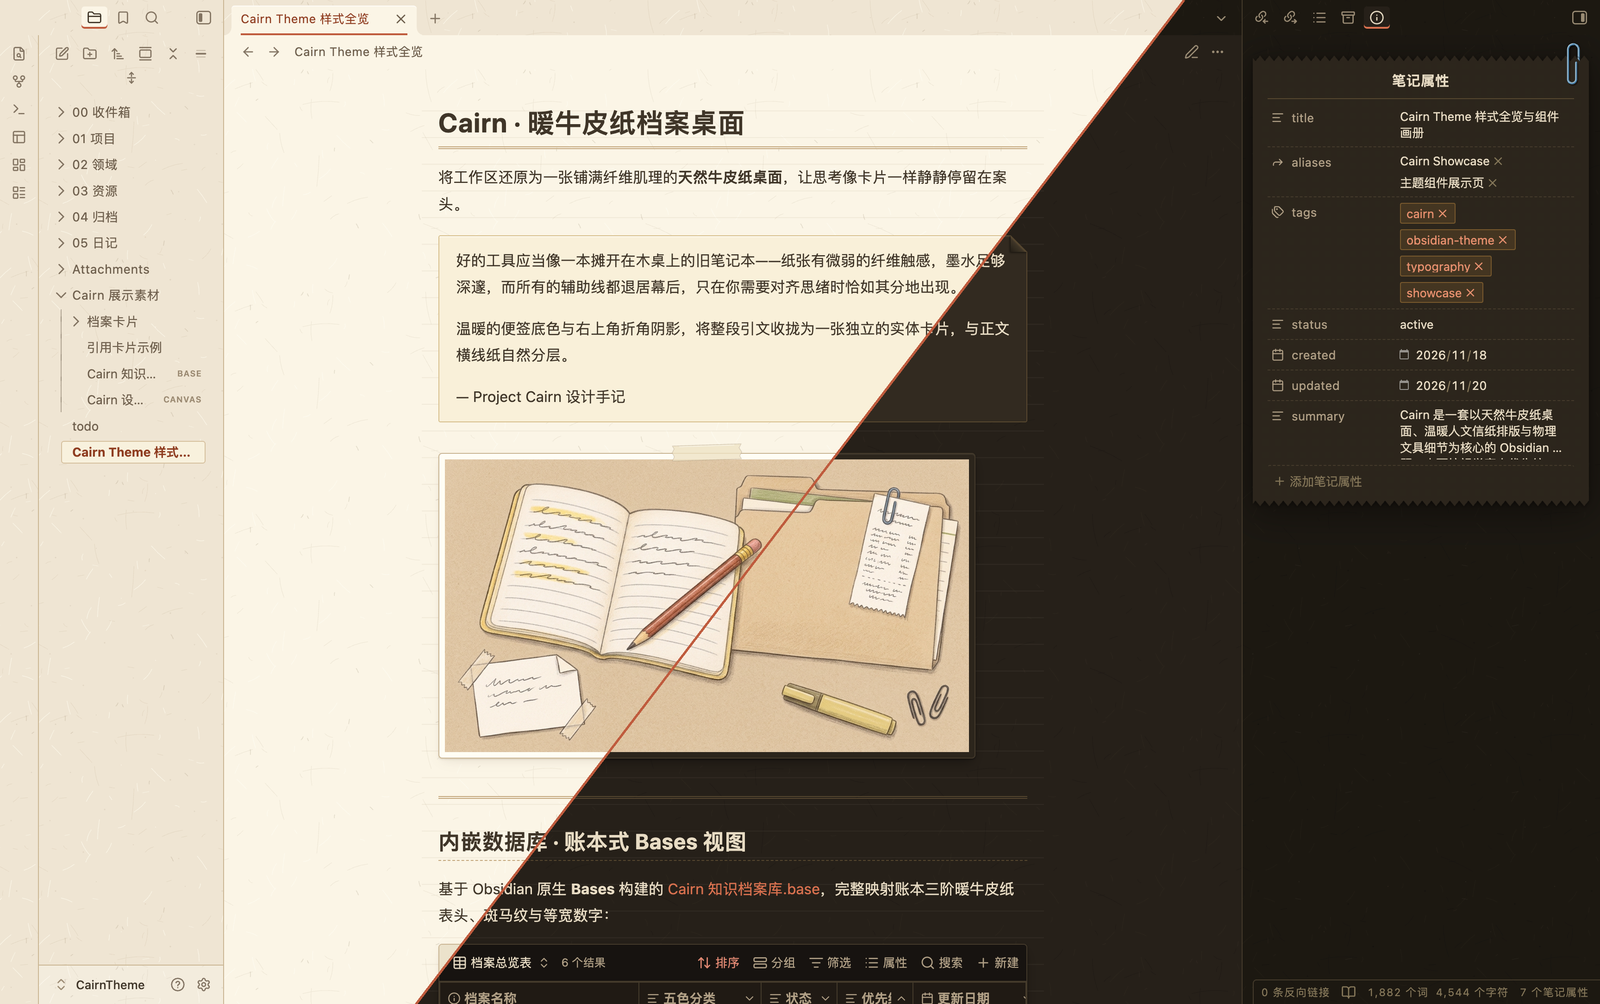
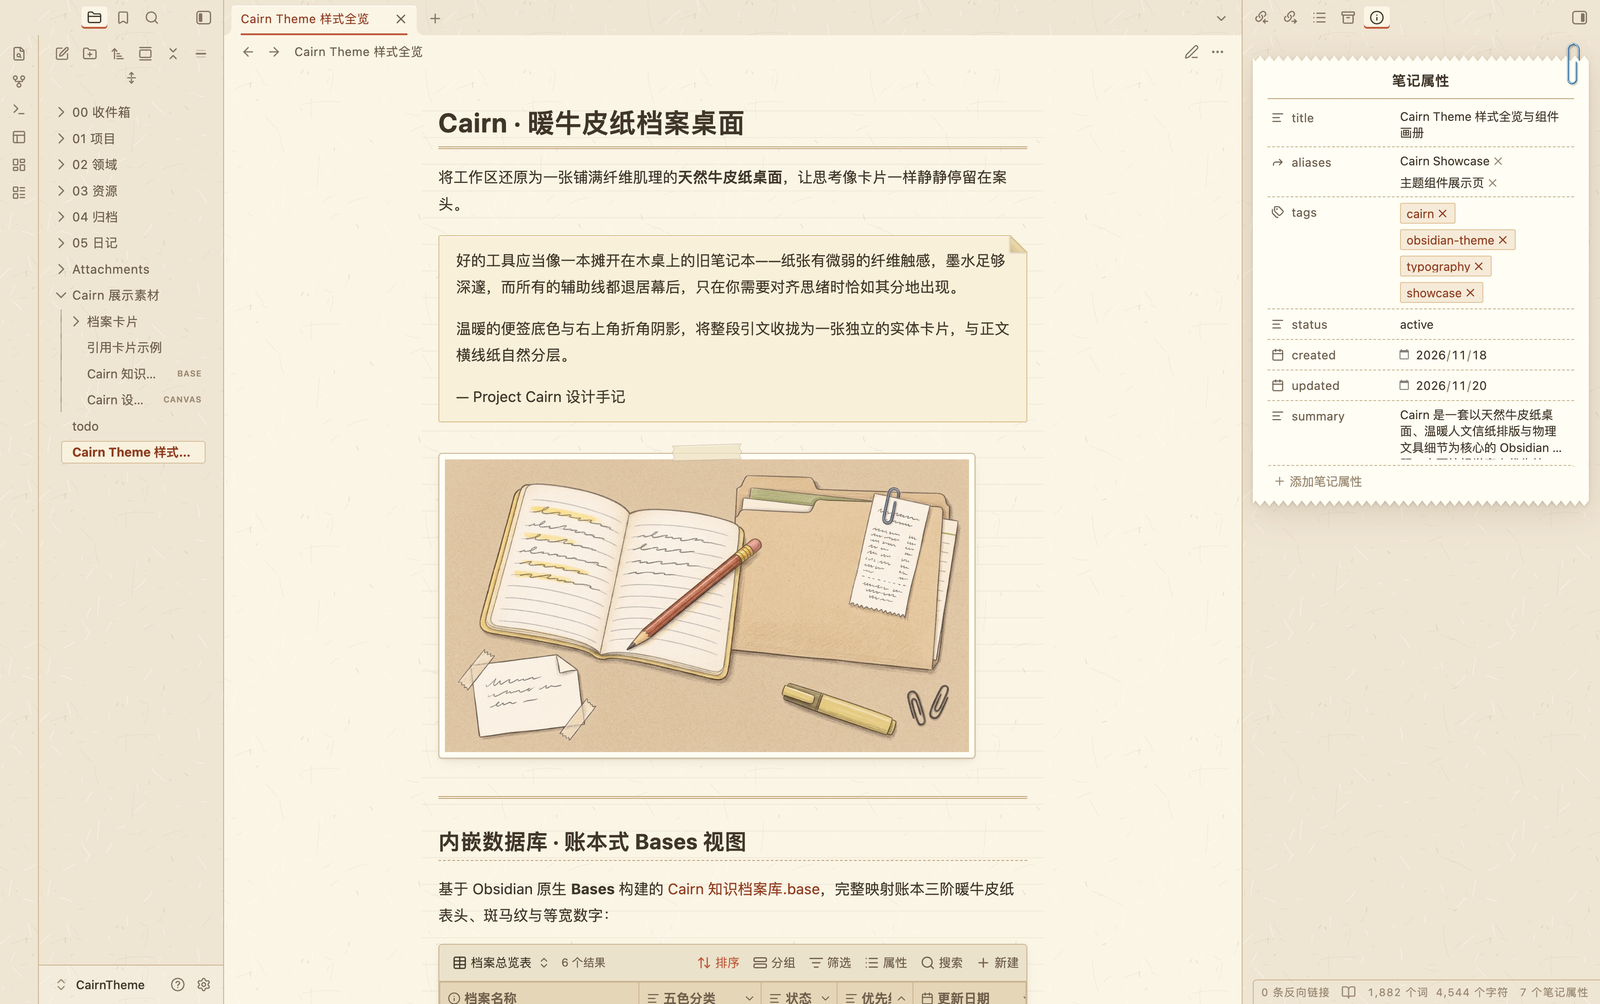
Use pure light hero image and add dedicated dark mode screenshot

diff --git a/README.md b/README.md
@@ -2,7 +2,7 @@
 
 *Read this in: **English** | [中文](README.zh-CN.md)*
 
-![Cairn — light mode and dark mode, split diagonally](media/hero.png)
+![Cairn — kraft-paper archive workspace in light mode](media/hero.png)
 
 A **warm kraft-paper archive theme** for Obsidian — turning your vault into physical sheets and index cards laid across a sunlit desk. Warm paper neutrals, deep brown ink, and a single terracotta accent across both Light and darkroom Dark modes, with no pure white, pure black, or cool grays anywhere.
 
@@ -37,6 +37,10 @@ Line-numbered code blocks and three-tier ledger tables:
 Inline typography, hand-drawn marker highlights, checkboxes and nested lists:
 
 ![Cairn inline styles, hand-drawn marker highlights, tasks and lists](media/typography.png)
+
+Dark mode (warm brown darkroom palette):
+
+![Cairn dark mode — warm brown darkroom palette](media/dark.png)
 
 ## Install
 

diff --git a/README.zh-CN.md b/README.zh-CN.md
@@ -2,7 +2,7 @@
 
 *语言切换： [English](README.md) | **中文***
 
-![Cairn —— 浅色与深色模式斜向拼接](media/hero.png)
+![Cairn —— 暖牛皮纸档案桌面（浅色模式）](media/hero.png)
 
 一个面向 Obsidian 的**暖牛皮纸档案主题**——把你的知识库还原成摊开在书桌上的实体纸页与卡片。全篇采用暖色纸张、深棕墨水与赤陶强调色，无纯白、无纯黑、无冷灰，完整支持浅色与暗房深色模式。
 
@@ -37,6 +37,10 @@ Obsidian **Bases（数据库）** 账本表格与内嵌白板点阵预览：
 行内排版、手绘马克笔高亮、手写复选框与多级列表：
 
 ![Cairn 行内排版、手绘马克笔高亮与任务列表](media/typography.png)
+
+深色模式（暗房暖棕配色）：
+
+![Cairn 深色模式 —— 全暖棕暗房配色](media/dark.png)
 
 ## 安装
 
